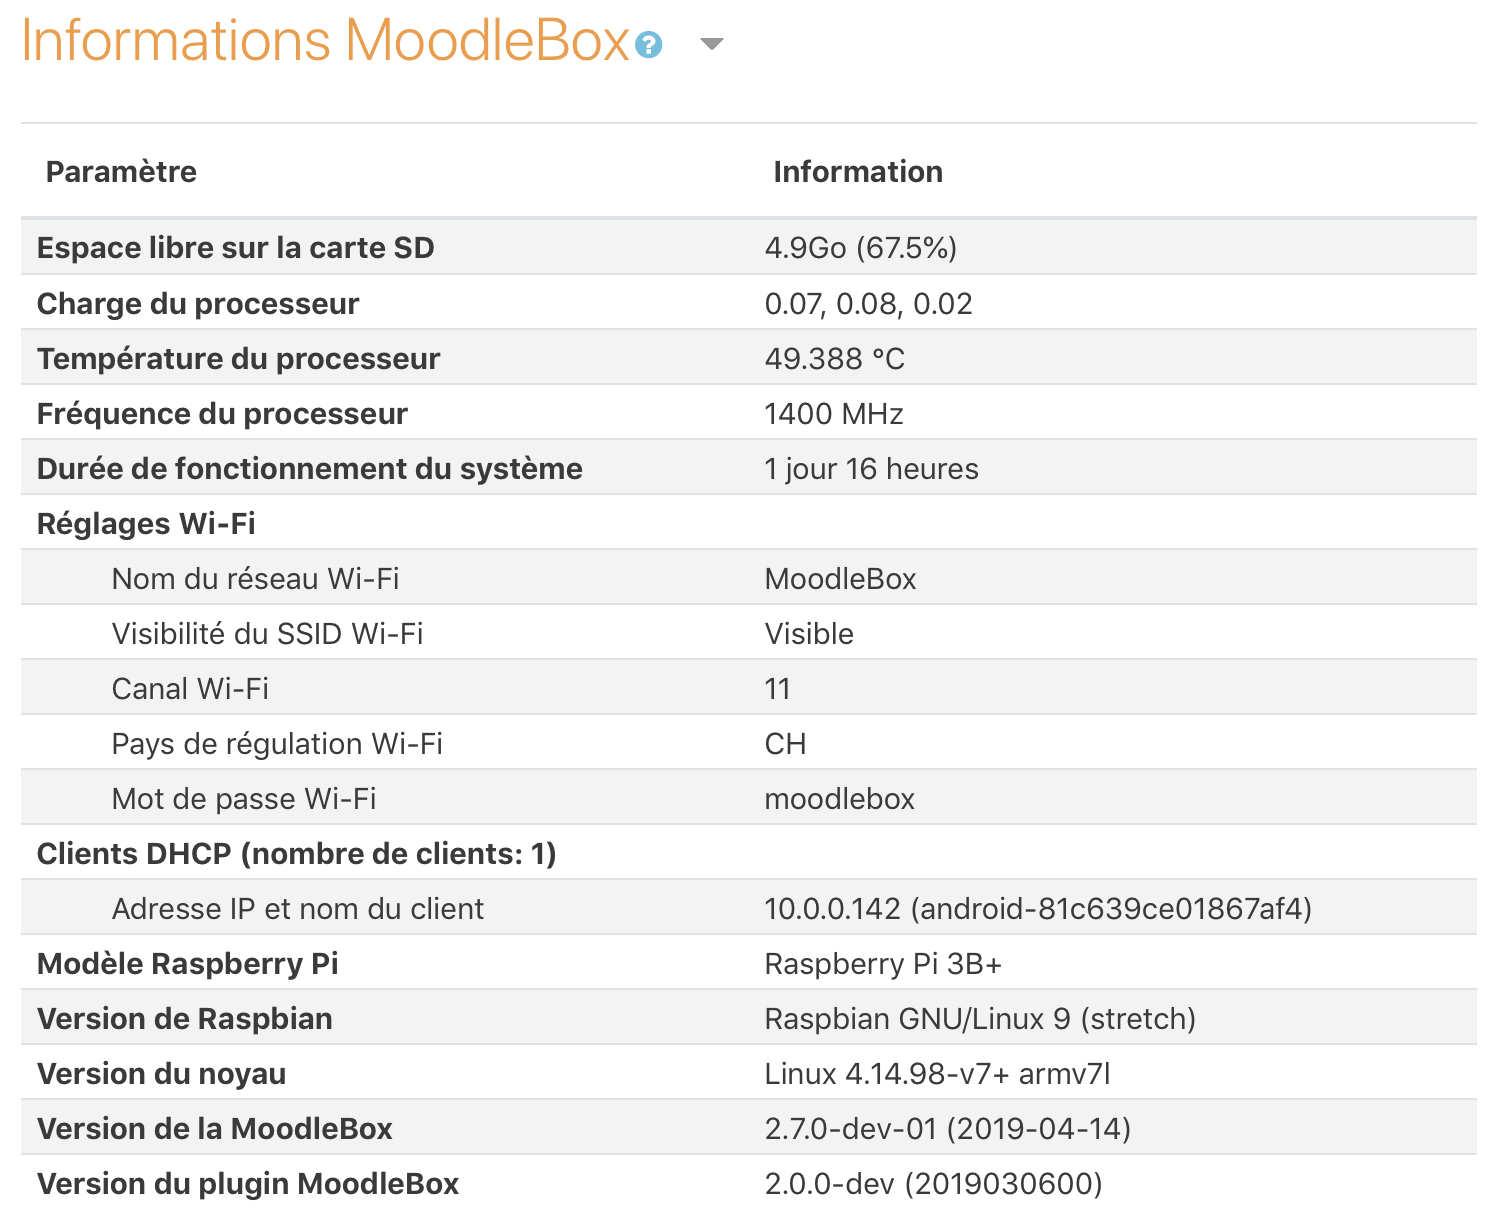
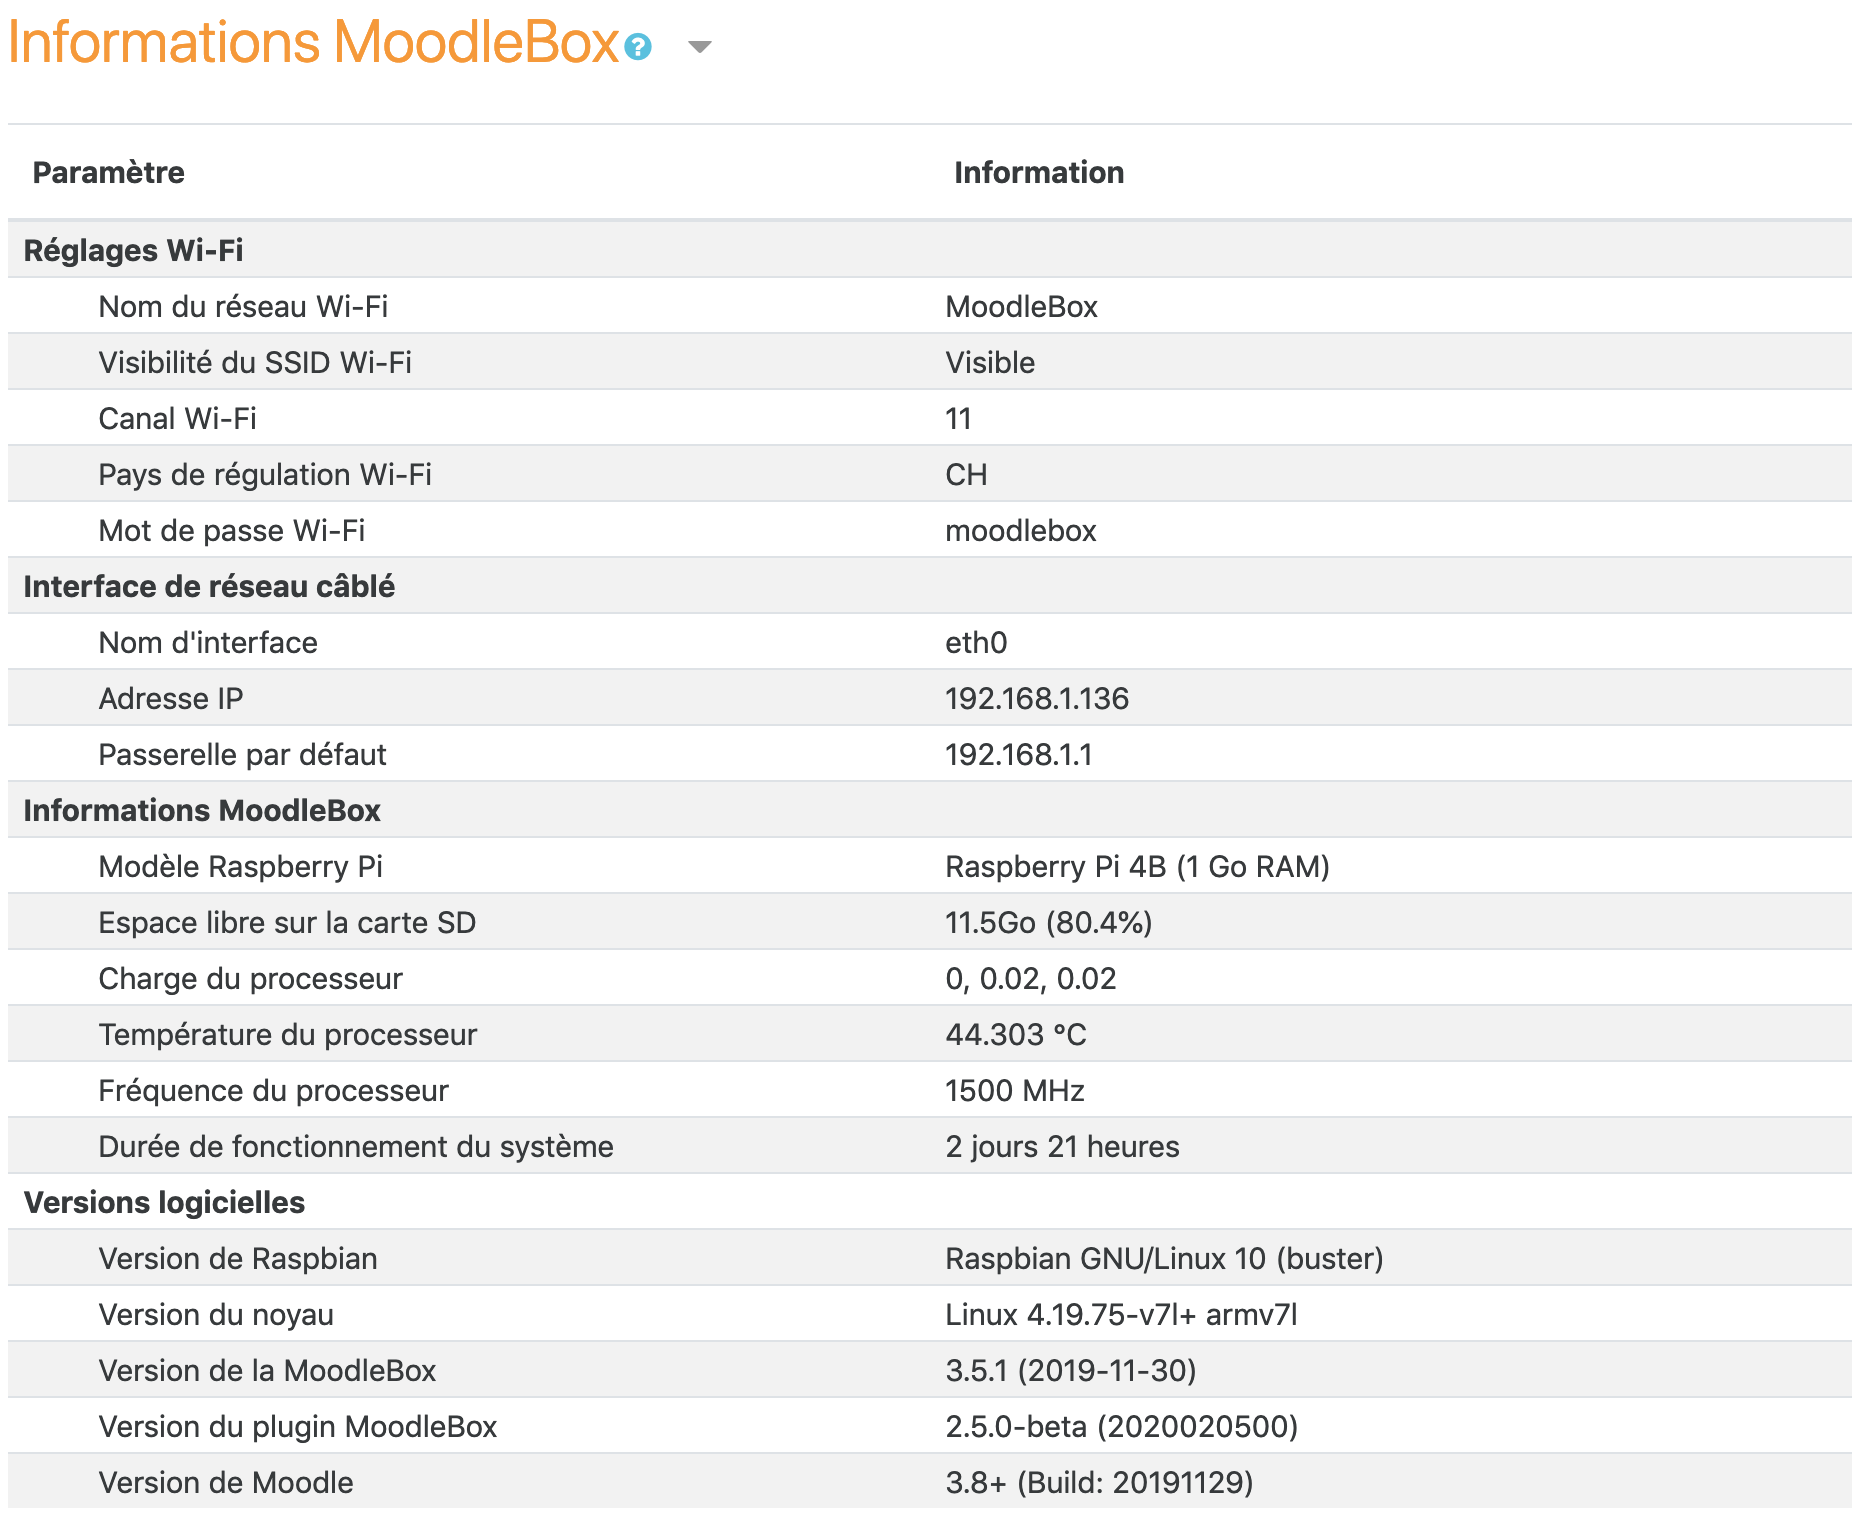
Update screenshot

diff --git a/content/fr/help/info-moodlebox/index.md b/content/fr/help/info-moodlebox/index.md
@@ -4,7 +4,7 @@ authors:
   - Nicolas Martignoni
 type: kb
 date: 2017-11-12
-lastmod: 2019-04-16
+lastmod: 2020-02-08
 description: MoodleBox est fournie avec un tableau de bord permettant d'afficher différentes informations sur le matériel et le logiciel installé.
 slug: tableau-de-bord
 weight: 10
@@ -22,7 +22,7 @@ Lorsque l'alimentation de la MoodleBox est insuffisante, __un avertissement est 
 {{< /notice >}}
 
 Le tableau de bord donne accès aux informations importantes sur le fonctionnement de la MoodleBox.
-{{< figure src="info-moodlebox.png" width="750" caption="Informations MoodleBox" class="centered-image" >}}
+{{< figure src="info-moodlebox.png" width="800" caption="Informations MoodleBox" class="centered-image" >}}
 
 Il permet également d'effectuer les opérations ci-dessous.
 

diff --git a/content/de/help/info-moodlebox/index.md b/content/de/help/info-moodlebox/index.md
@@ -5,7 +5,7 @@ authors:
   - Ralf Krause
 type: kb
 date: 2018-02-13
-lastmod: 2019-04-16
+lastmod: 2020-02-08
 description: MoodleBox wird mit einem Dashboard ausgestattet, um verschiedene Informationen über die installierte Hard- und Software anzuzeigen.
 slug: moodlebox-dashboard
 weight: 10
@@ -24,7 +24,7 @@ Wenn die Stromversorgung der MoodleBox nicht ausreichend ist, wird __oben auf je
 
 Das Dashboard bietet Zugang zu wichtigen Informationen über die Funktionen der MoodleBox.
 
-{{< figure src="info-moodlebox.png" width="750" caption="MoodleBox Informationen" class="centered-image" >}}
+{{< figure src="info-moodlebox.png" width="800" caption="MoodleBox Informationen" class="centered-image" >}}
 
 Das Dashboard ermöglicht es Ihnen auch, die folgenden Aktionen durchzuführen.
 

diff --git a/content/en/help/info-moodlebox/index.md b/content/en/help/info-moodlebox/index.md
@@ -4,7 +4,7 @@ authors:
   - Nicolas Martignoni
 type: kb
 date: 2017-11-12
-lastmod: 2019-04-16
+lastmod: 2020-02-08
 description: MoodleBox comes with a dashboard to display different information about the hardware and software installed.
 slug: moodlebox-dashboard
 weight: 10
@@ -22,7 +22,7 @@ When the MoodleBox power supply is not adequate, a __warning is displayed at the
 
 The dashboard provides access to important information on the operation of the MoodleBox.
 
-{{< figure src="info-moodlebox.png" width="750" caption="MoodleBox information" class="centered-image" >}}
+{{< figure src="info-moodlebox.png" width="800" caption="MoodleBox information" class="centered-image" >}}
 
 The dashboard also allows you to perform the following operations.
 
